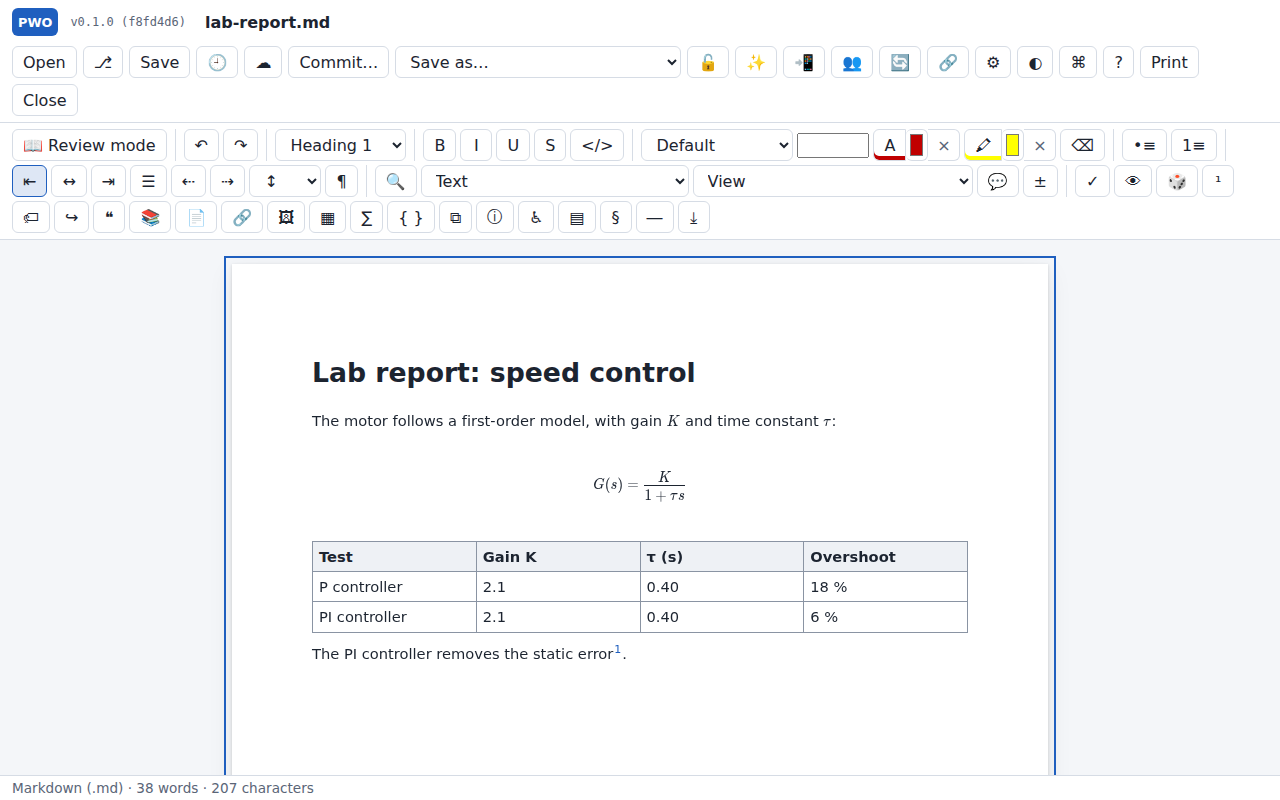
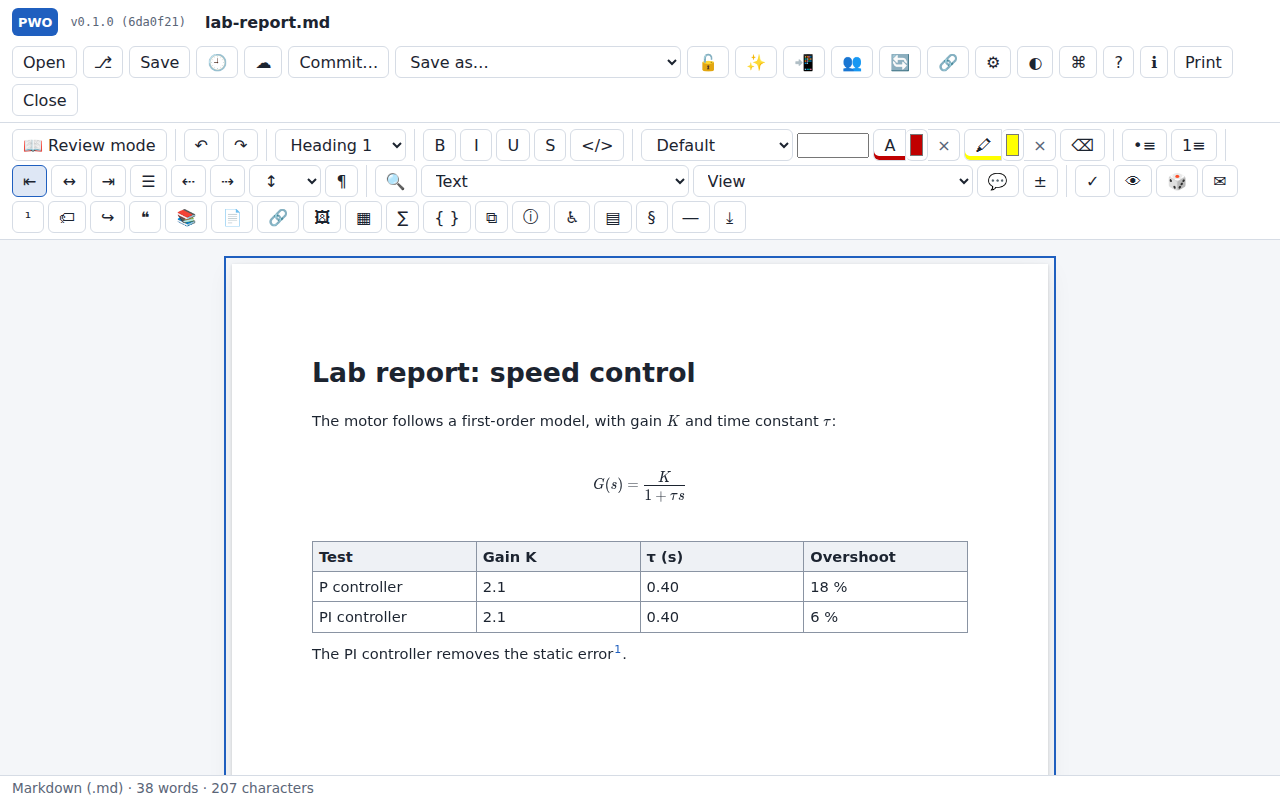
feat(app): Documentation, Source code and About as visible buttons
Three buttons under the title of the start screen; in the toolbar, ? opens
the documentation and ℹ the About window.

Assisted-by: AI

diff --git a/src/app/app.ts b/src/app/app.ts
@@ -898,6 +898,14 @@ export class App {
         { class: 'start' },
         h('h1', {}, t('app.name'), ' ', h('span', { class: 'app-version-title' }, versionLabel())),
         h('p', { class: 'tagline' }, t('app.tagline')),
+        // The documentation (published next to the app, under docs/, see pages.yml), the source and About, in plain sight.
+        h(
+          'nav',
+          { class: 'start-links', 'aria-label': t('app.links') },
+          h('a', { class: 'start-link', href: new URL('docs/', document.baseURI).href, target: '_blank', rel: 'noopener', 'data-icon': '📖' }, t('app.docs')),
+          h('a', { class: 'start-link', href: SOURCE_URL, target: '_blank', rel: 'noopener', 'data-icon': '⌨' }, t('app.source')),
+          button(t('about.open'), () => void this.showAbout(), { className: 'start-link', title: t('about.openTitle'), icon: 'ℹ' }),
+        ),
         h(
           'div',
           { class: 'start-actions' },
@@ -914,16 +922,6 @@ export class App {
         ),
         h('p', { class: 'hint' }, t('start.tip')),
         h('div', { class: 'start-prefs' }, this.languagePicker(), this.formatPicker()),
-        h(
-          'p',
-          { class: 'source-link' },
-          // The documentation is published next to the app, under docs/ (see pages.yml).
-          h('a', { href: new URL('docs/', document.baseURI).href, target: '_blank', rel: 'noopener' }, t('app.docs')),
-          ' · ',
-          h('a', { href: SOURCE_URL, target: '_blank', rel: 'noopener' }, t('app.source')),
-          ' · ',
-          button(t('about.open'), () => void this.showAbout(), { className: 'link', title: t('about.openTitle') }),
-        ),
         recent,
       ),
     );
@@ -1051,7 +1049,11 @@ export class App {
     actions.append(settings);
     actions.append(this.themeButton());
     actions.append(button(t('palette.label'), () => void this.openPalette(), { title: t('palette.button'), text: '⌘', className: 'icon' }));
-    actions.append(button(t('about.open'), () => void this.showAbout(), { title: t('about.openTitle'), text: '?', className: 'icon' }));
+    // The documentation (help) and About, always at hand.
+    actions.append(
+      h('a', { class: 'button-like icon', href: new URL('docs/', document.baseURI).href, target: '_blank', rel: 'noopener', title: t('app.docsTitle'), 'aria-label': t('app.docs') }, '?'),
+      button(t('about.open'), () => void this.showAbout(), { title: t('about.openTitle'), text: 'ℹ', className: 'icon' }),
+    );
     if (doc) {
       actions.append(
         button(t('file.print'), () => void this.print(), { title: t('file.printTitle') }),

diff --git a/src/app/styles.css b/src/app/styles.css
@@ -905,7 +905,8 @@ nav.toc .toc-empty { margin: 0; color: #6b7686; font-style: italic; font-size: 0
   .app-header.more-open .header-actions > * { display: flex; justify-content: flex-start; }
   .app-header.more-open .header-actions > .more-toggle { order: -1; align-self: flex-end; }
   /* Icon buttons show their name in the menu. */
-  .app-header.more-open .header-actions > button.icon[aria-label]::after { content: ' ' attr(aria-label); margin-left: 6px; }
+  .app-header.more-open .header-actions > button.icon[aria-label]::after,
+  .app-header.more-open .header-actions > a.icon[aria-label]::after { content: ' ' attr(aria-label); margin-left: 6px; }
   .toolbar { flex-wrap: nowrap; overflow-x: auto; overscroll-behavior-x: contain; scrollbar-width: thin; padding: 4px 8px; }
   .toolbar > * { flex: 0 0 auto; }
   .toolbar .sep { display: none; }
@@ -1173,3 +1174,25 @@ body.distraction-free .ai-panel { display: none !important; }
 .doc-page blockquote.callout-warning { --callout: #d9822b; }
 .doc-page blockquote.callout-danger { --callout: #d1453b; }
 .doc-page blockquote.callout-example { --callout: #8a4fd6; }
+
+/* The documentation, the source code and About, in plain sight on the start screen. */
+.start-links { display: flex; flex-wrap: wrap; gap: 8px; margin: 4px 0 20px; }
+.start-link {
+  display: inline-flex;
+  align-items: center;
+  gap: 6px;
+  box-sizing: border-box;
+  min-height: 36px;
+  padding: 6px 14px;
+  border: 1px solid var(--border);
+  border-radius: 999px;
+  background: var(--surface);
+  color: var(--text);
+  font: inherit;
+  font-weight: 600;
+  font-size: 0.95rem;
+  text-decoration: none;
+  cursor: pointer;
+}
+.start-link[data-icon]::before { content: attr(data-icon) / ''; }
+.start-link:hover, .start-link:focus-visible { border-color: var(--accent); color: var(--accent); }

diff --git a/tests/app.shell.test.ts b/tests/app.shell.test.ts
@@ -19,9 +19,11 @@ describe('UI-001 start screen', () => {
 
   it('links to the documentation and the source code', () => {
     new App(root);
-    const links = Array.from(root.querySelectorAll<HTMLAnchorElement>('.start .source-link a'));
-    expect(links.map((a) => a.textContent)).toEqual(['Documentation', 'Source code (GNU AGPL-3.0)']);
-    expect(links[0]!.href).toBe(new URL('docs/', document.baseURI).href);
+    const links = Array.from(root.querySelectorAll<HTMLElement>('.start .start-links .start-link'));
+    expect(links.map((a) => a.textContent)).toEqual(['Documentation', 'Source code (GNU AGPL-3.0)', 'About']);
+    expect((links[0] as HTMLAnchorElement).href).toBe(new URL('docs/', document.baseURI).href);
+    // And in the header: the documentation (?) and About (ℹ).
+    expect(root.querySelector<HTMLAnchorElement>('.header-actions a[aria-label="Documentation"]')!.href).toBe(new URL('docs/', document.baseURI).href);
   });
 
   it('UI-003 gives every button an accessible name', () => {

diff --git a/src/i18n/fr.ts b/src/i18n/fr.ts
@@ -467,6 +467,8 @@ export const fr: Record<MessageKey, string> = {
   'common.allow': 'Autoriser',
   'common.close': 'Fermer',
   'app.docs': 'Documentation',
+  'app.links': 'Liens',
+  'app.docsTitle': 'Documentation : les guides de chaque fonctionnalité',
   'app.source': 'Code source (GNU AGPL-3.0)',
   'theme.label': 'Thème : {mode}',
   'theme.system': 'Système',

diff --git a/src/i18n/zh.ts b/src/i18n/zh.ts
@@ -467,6 +467,8 @@ export const zh: Record<MessageKey, string> = {
   'common.allow': '允许',
   'common.close': '关闭',
   'app.docs': '使用文档',
+  'app.links': '链接',
+  'app.docsTitle': '使用文档：每项功能的指南',
   'app.source': '源代码（GNU AGPL-3.0）',
   'theme.label': '主题：{mode}',
   'theme.system': '跟随系统',

diff --git a/src/i18n/en.ts b/src/i18n/en.ts
@@ -465,6 +465,8 @@ export const en = {
   'common.allow': 'Allow',
   'common.close': 'Close',
   'app.docs': 'Documentation',
+  'app.links': 'Links',
+  'app.docsTitle': 'Documentation: guides for every feature',
   'app.source': 'Source code (GNU AGPL-3.0)',
   'theme.label': 'Theme: {mode}',
   'theme.system': 'System',

diff --git a/docs/guide/getting-started.md b/docs/guide/getting-started.md
@@ -111,9 +111,13 @@ Versions stay in this browser only: clearing the site's data erases them.
 | <kbd>Ctrl</kbd>+<kbd>O</kbd> | Open a file |
 | <kbd>Ctrl</kbd>+<kbd>S</kbd> | Save |
 
-## About
+## Documentation, source code and About
 
-**?** in the toolbar (or *About* on the start screen) shows the version and
+The start screen shows three buttons under the title: **📖 Documentation**
+(this site), **⌨ Source code** and **ℹ About**. In the toolbar, **?** opens
+the documentation and **ℹ** the About window.
+
+**About** shows the version and
 the git commit of the build, whether the app is installed and works offline,
 and links to this documentation, the source code, the changelog and the
 problem tracker. Its **QR code** opens the app on another device: scan it with

diff --git a/CHANGELOG.md b/CHANGELOG.md
@@ -198,6 +198,10 @@ Roadmap phases are `0.0.x` milestones (see `ROADMAP.md`).
 
 ### Changed
 
+- Documentation, source code and About are buttons under the title of the
+  start screen; in the toolbar, **?** opens the documentation and **ℹ**
+  the About window.
+
 - Documentation site: a visual identity matching the application (its icon
   as logo and favicon, its blue and the colours of documents, spreadsheets
   and presentations, light and dark), a home page with feature icons and
